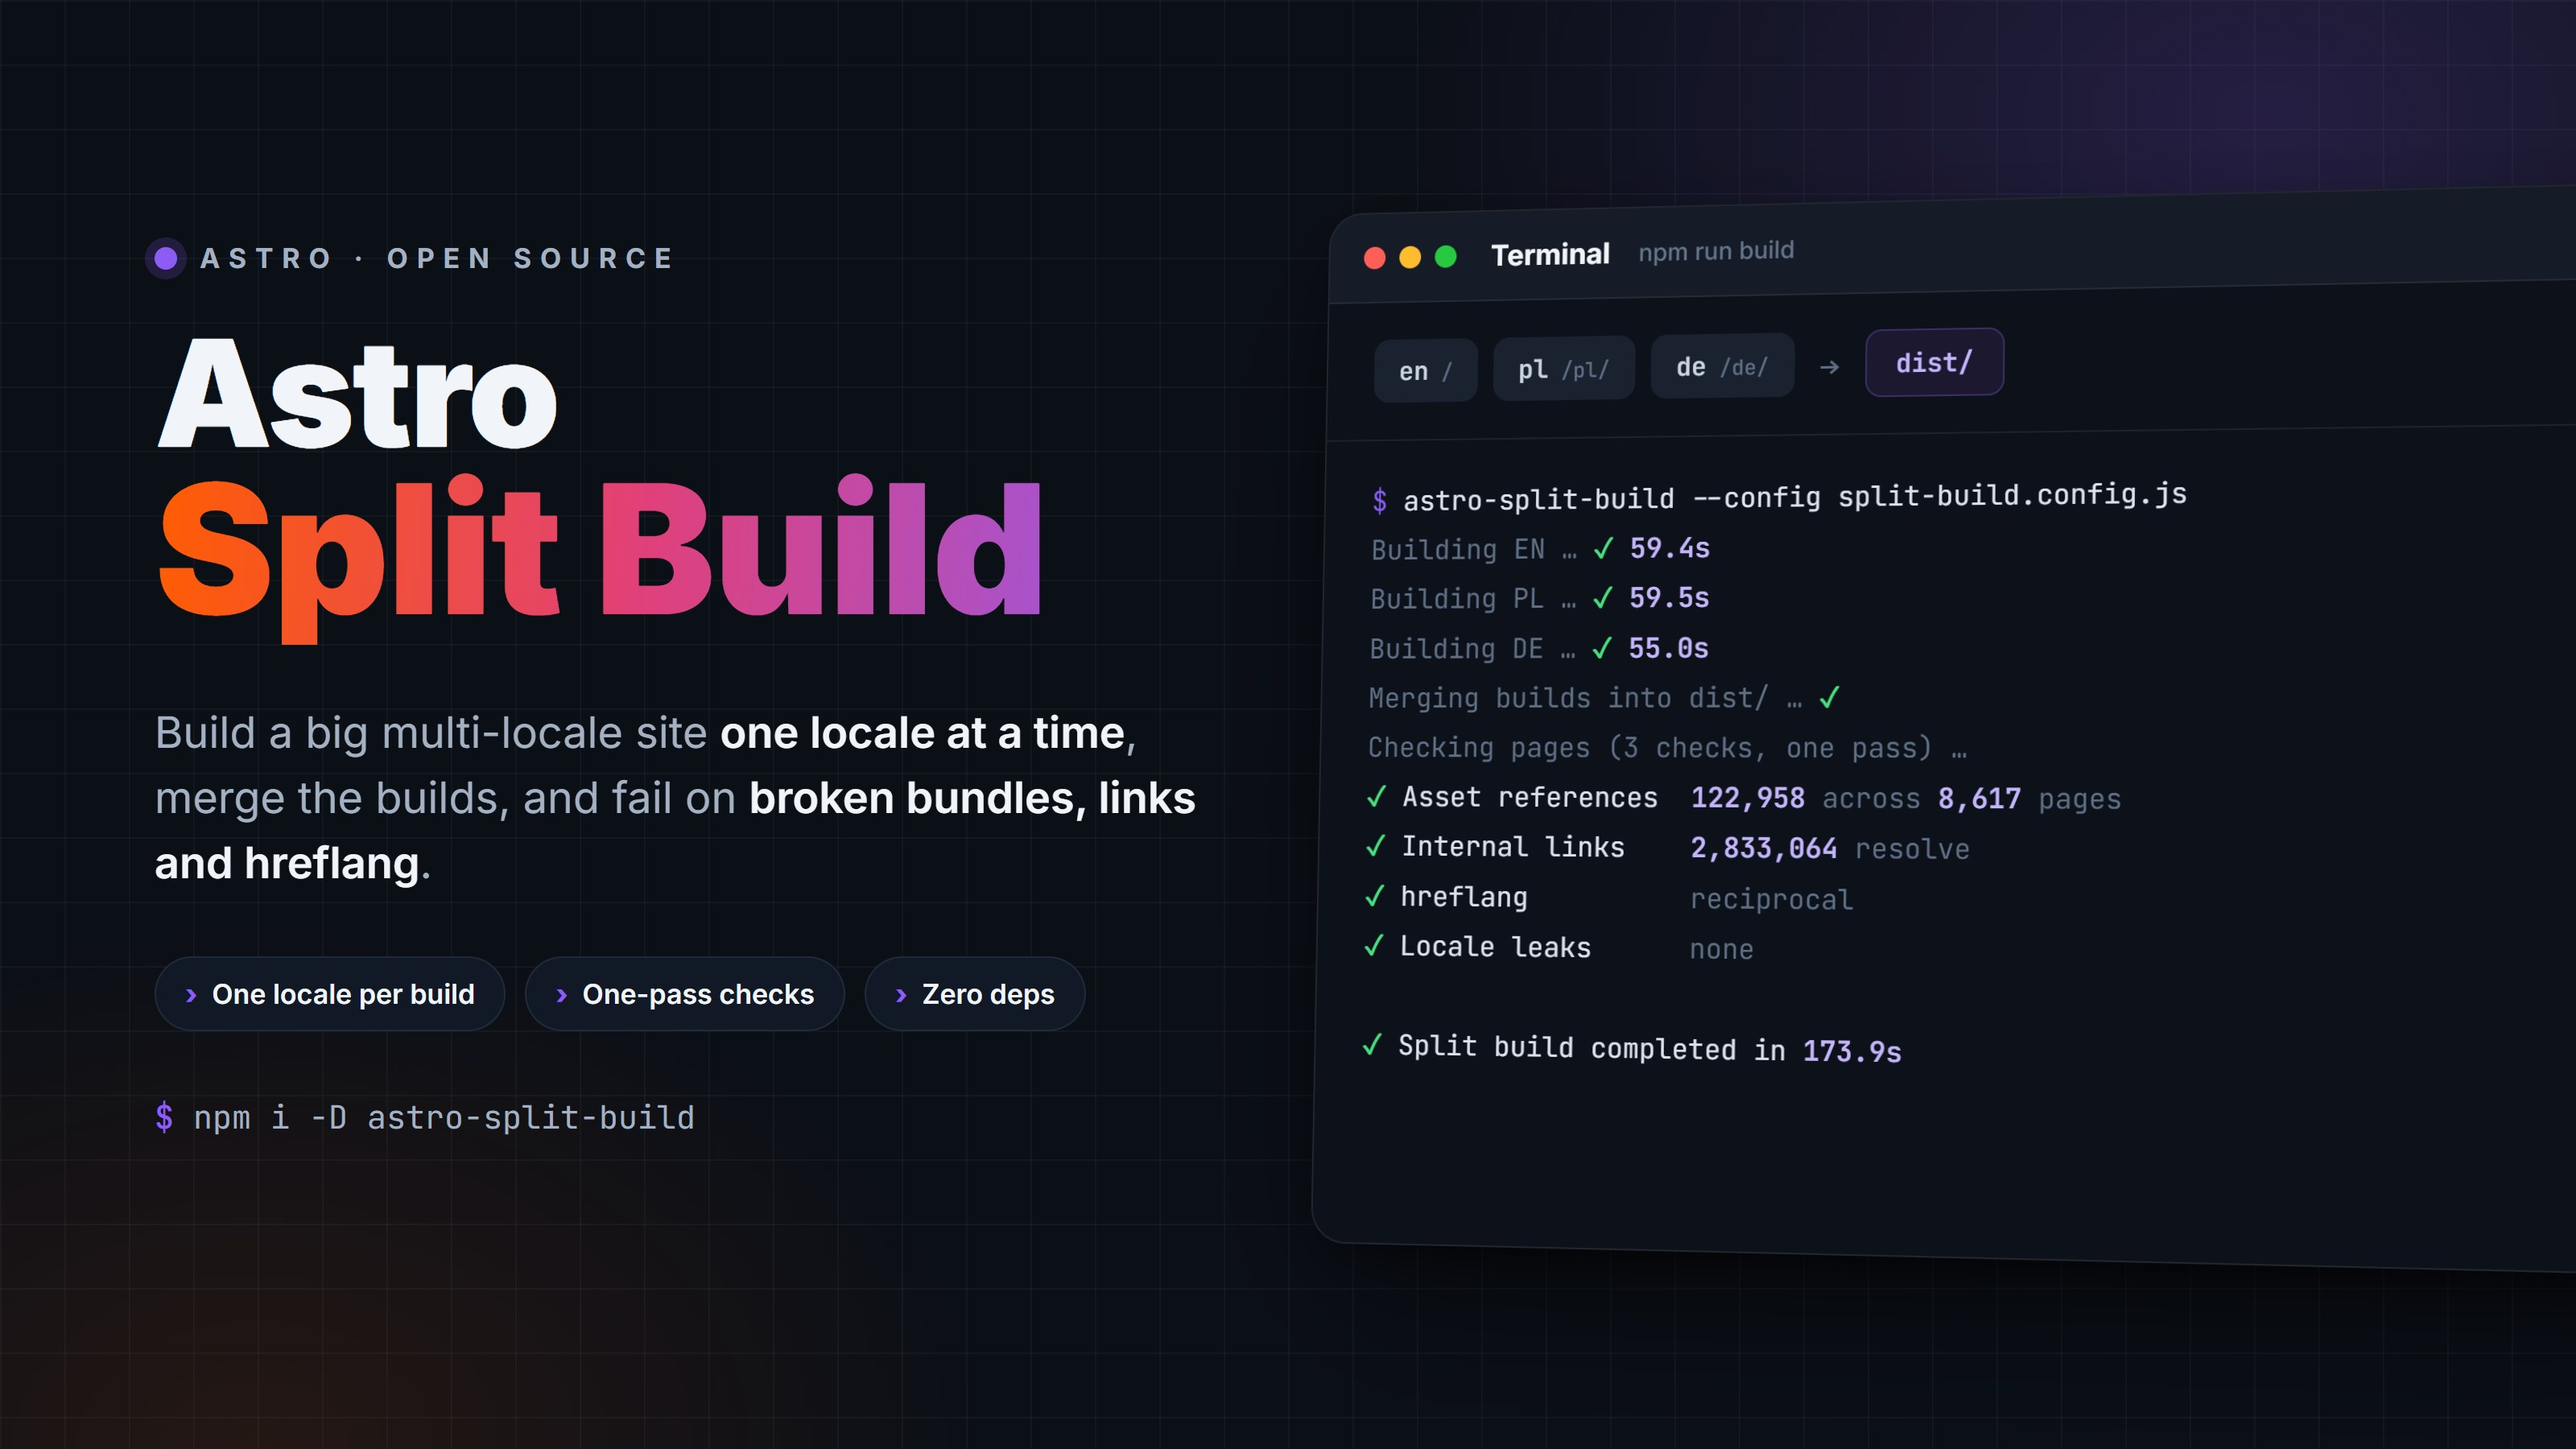
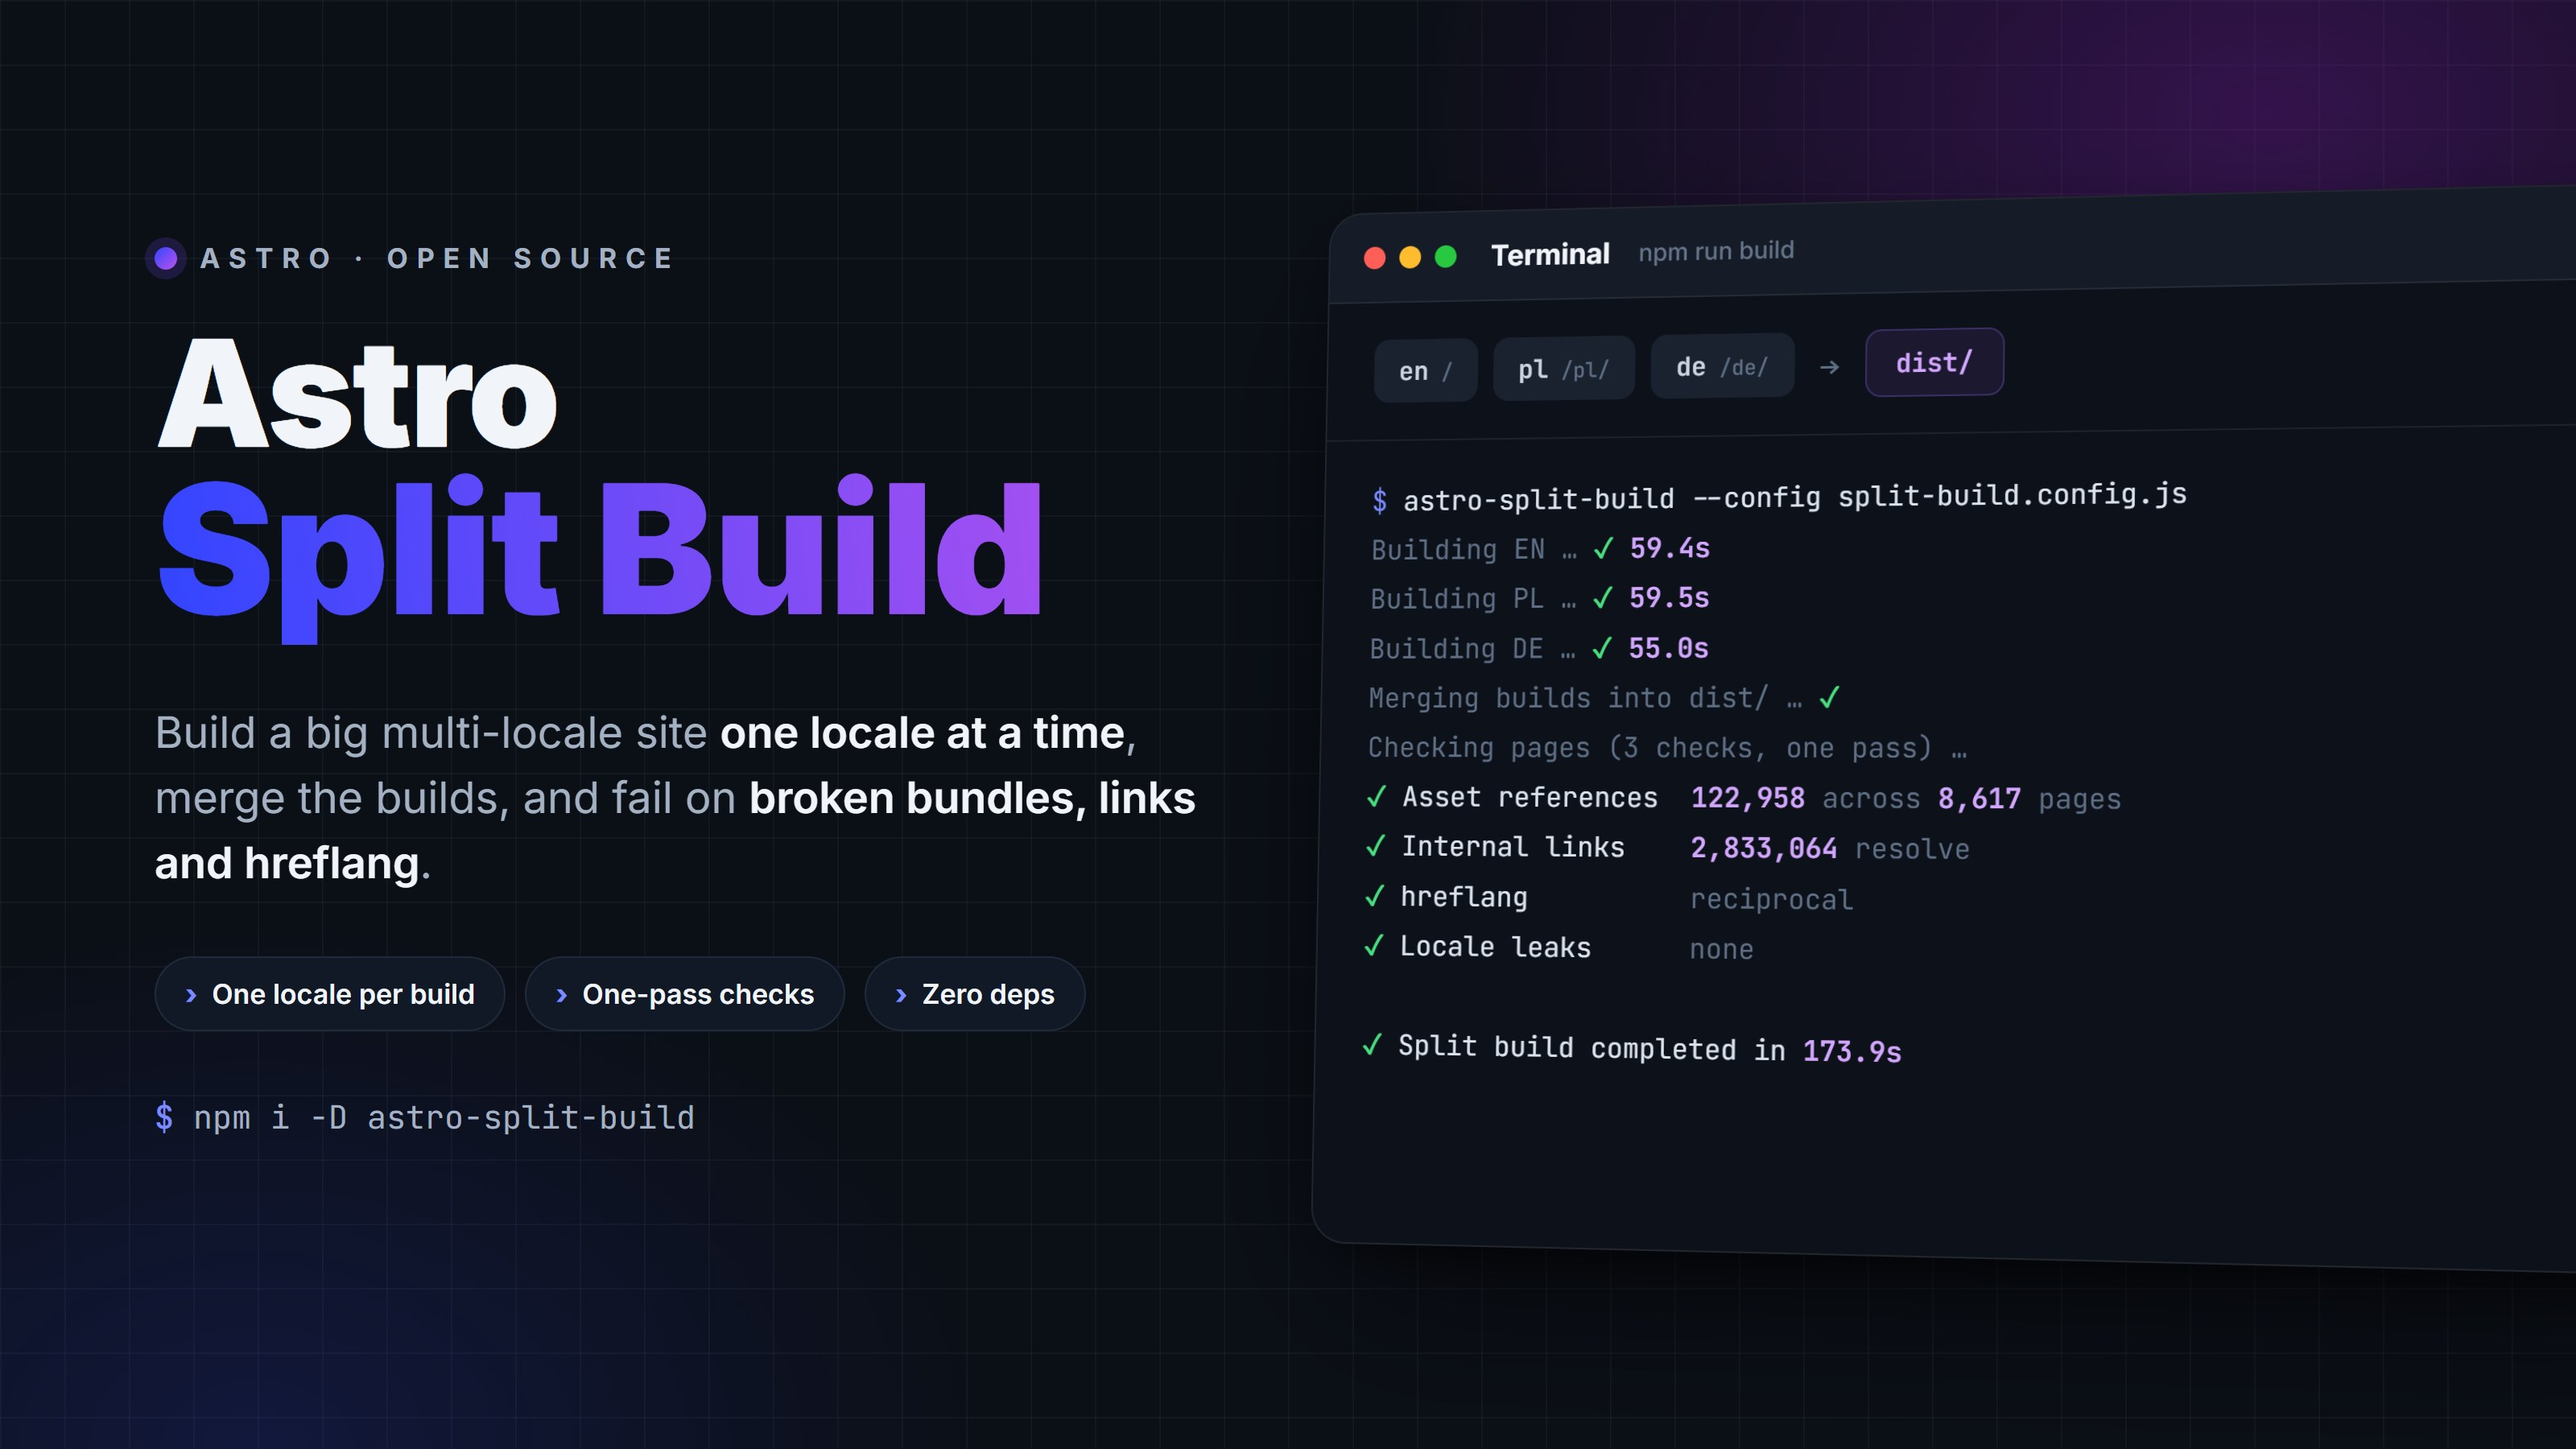
docs: cover in Astro's current blue-violet gradient

Changed region(s): [[0.0625, 0.3111, 0.4062, 0.4667], [0.0, 0.84, 0.2188, 1.0]]

diff --git a/art/cover.html b/art/cover.html
@@ -17,14 +17,14 @@
   :root {
     --bg: #fbfaf7;
     --grid: rgba(15, 23, 42, .045);
-    --glow: rgba(140, 92, 245, .14);
-    --glow-2: rgba(255, 93, 1, .10);
+    --glow: rgba(188, 82, 238, .14);
+    --glow-2: rgba(50, 69, 255, .10);
     --ink: #0f172a;
     --muted: #475569;
     --faint: #94a3b8;
     --chip-bg: #ffffff;
     --chip-border: #e2e8f0;
-    --accent: #8c5cf5;
+    --accent: #3245ff;
     --window: #ffffff;
     --window-border: rgba(15, 23, 42, .08);
     --shadow: 0 40px 80px -30px rgba(15, 23, 42, .35), 0 12px 30px -12px rgba(15, 23, 42, .18);
@@ -33,17 +33,18 @@
     --term-ink: #1e293b;
     --term-dim: #94a3b8;
     --ok: #16a34a;
-    --num: #7c3aed;
+    --num: #6b3df0;
     --pill: #f1f5f9;
     --pill-ink: #334155;
-    --dist: #f5f3ff;
-    --dist-border: #ddd6fe;
+    --dist: #f3f0ff;
+    --dist-border: #d9d2fe;
   }
   .dark {
     --bg: #0b0f16;
     --grid: rgba(148, 163, 184, .06);
-    --glow: rgba(140, 92, 245, .20);
-    --glow-2: rgba(255, 93, 1, .10);
+    --glow: rgba(136, 26, 189, .32);
+    --glow-2: rgba(50, 69, 255, .16);
+    --accent: #7b8aff;
     --ink: #f1f5f9;
     --muted: #a3b1c2;
     --faint: #64748b;
@@ -57,7 +58,7 @@
     --term-ink: #dbe3ee;
     --term-dim: #5f6f86;
     --ok: #4ade80;
-    --num: #c4b5fd;
+    --num: #d3a6ff;
     --pill: #1a2230;
     --pill-ink: #cbd5e1;
     --dist: #1c1830;
@@ -84,12 +85,13 @@
     display: flex; align-items: center; gap: 14px;
     font-size: 17px; font-weight: 700; letter-spacing: .32em; color: var(--muted);
   }
-  .eyebrow .dot { width: 14px; height: 14px; border-radius: 50%; background: var(--accent); box-shadow: 0 0 0 6px rgba(140, 92, 245, .18); }
+  .eyebrow .dot { width: 14px; height: 14px; border-radius: 50%; background: linear-gradient(135deg, #3245ff, #bc52ee); box-shadow: 0 0 0 6px rgba(118, 76, 247, .18); }
   h1 { margin-top: 30px; font-weight: 900; letter-spacing: -.035em; line-height: .95; }
   h1 .top { display: block; font-size: 92px; }
   h1 .bottom {
     display: block; font-size: 112px;
-    background: linear-gradient(95deg, #ff5d01 0%, #e0407a 45%, #8c5cf5 100%);
+    /* astro.build's brand gradient (2026): blue-violet to purple */
+    background: linear-gradient(83deg, #3245ff 0%, #bc52ee 100%);
     -webkit-background-clip: text; background-clip: text; color: transparent;
     padding-bottom: 6px;
   }
